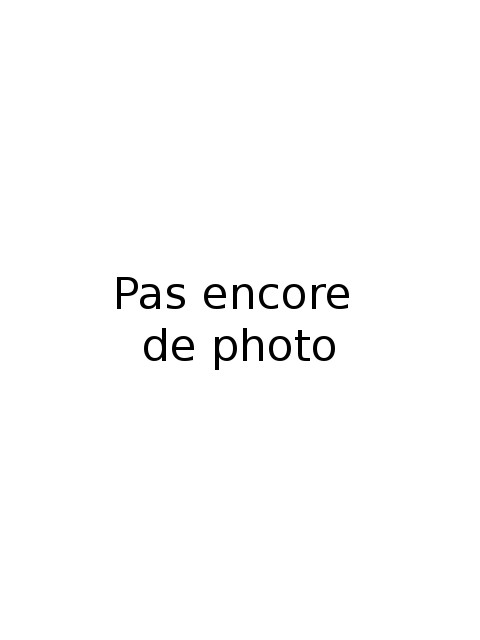
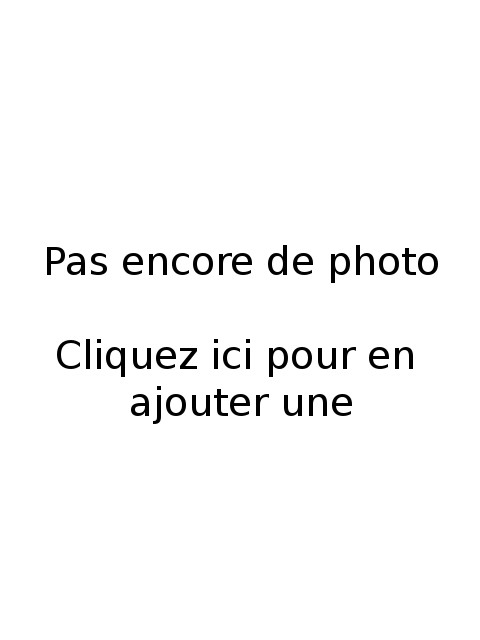
Ajout de la page d'upload des photos, renommage d'une photo et ajout de commentaires

Changed region(s): [[0.0938, 0.375, 0.9375, 0.6562], [0.0938, 0.375, 0.2188, 0.4375]]

diff --git a/Trombinoscope.php b/Trombinoscope.php
@@ -37,12 +37,19 @@
           
           $id=$donnees['id'];
           
-
           // passage des variables $id, $tel et $date en paramètre via l'url
           echo "<div class=\"row\">
-                  <div class=\"w-6\">
-                    <div><a href=\"simplonien.php?id=$id&tel=$tel&date=$date\"><img class=\"img_simploniens \"src=\"".$donnees['photo']."\" alt=\"".$donnees['prenom']." ".$donnees['nom']."\" title=\"".$donnees['prenom']." ".$donnees['nom']."\"/></a></div>
-                    <div><br /><p class=\"p_trombi\">".$donnees['prenom']."</p></div>
+                  <div class=\"w-6\">";
+                  
+                  if ($donnees['photo']!='images/PasDePhoto.JPG')
+                  {
+                    echo "<div><a href=\"simplonien.php?id=$id&tel=$tel&date=$date\"><img class=\"img_simploniens \"src=\"".$donnees['photo']."\" alt=\"".$donnees['prenom']." ".$donnees['nom']."\" title=\"".$donnees['prenom']." ".$donnees['nom']."\"/></a></div>";
+                  }
+                  else
+                  {
+                    echo "<div><a href=\"f_upload.php?id=$id\"><img class=\"img_simploniens \"src=\"".$donnees['photo']."\" alt=\"".$donnees['prenom']." ".$donnees['nom']."\" title=\"".$donnees['prenom']." ".$donnees['nom']."\"/></a></div>";
+                  }  
+                    echo "<div><br /><p class=\"p_trombi\">".$donnees['prenom']."</p></div>
                     <div><p class=\"p_trombi\">".$donnees['nom']."</p></div>
                     <div><p class=\"p_trombi\"><a href=\"".$donnees['cv']."\">CV</a></p></div>
                     <div><p class=\"p_trombi\">".$donnees['mail']."</p></div>
@@ -52,7 +59,6 @@
                     <div><a href=\"verif_passwd.php?id=$id&mode=sup\" class=\"boutons\"><img src=\"images/Supprimer.png\" alt=\"Supprimer\" title=\"Supprimer\"/></a></div>
                   </div>
                 </div>";
-                
           if ($colonne == 'droite')
           {
             echo "<p class=\"clear\"></p>";

diff --git a/verif_passwd.php b/verif_passwd.php
@@ -1,19 +1,36 @@
-<?php  
+<!-- Formulaire de demande du mot de passe -->
 
+<?php  
 	$id=$_GET['id'];
 	$mode=$_GET['mode'];
+	
+	//si l'ip est celle de l'utilisateur local (127.0.0.1) et qu'on est en mode suppresion
+	//on charge la page de suppresion sans demander le mdp
+	if (($_SERVER["REMOTE_ADDR"]=='127.0.0.1')&&($mode=='sup'))
+	{
+		echo header('Location: supprimer.php?id='.$id);
+	}
 
-	if ($mode=='sup') // si le mode est sup alors on ouvre la page supprimer avec l'id en paramètre
+	//si l'ip est celle de l'utilisateur local (127.0.0.1) et qu'on est en mode modification
+	//on charge la page de modification sans demander le mdp
+	if (($_SERVER["REMOTE_ADDR"]=='127.0.0.1')&&($mode=='mod'))
+	{
+		echo header('Location: f_modifier.php?id='.$id);
+	}
+
+	if ($mode=='sup') //affichage de la demande de mot de passe pour la page supprimer 
 	{
 		echo 	"<form method=\"post\" action=\"supprimer.php?id=$id\">
 					<label for=\"password\">Mot de passe : </label><input type=\"password\" name=\"password\"/>
 				</form>";	
 	}
 
-	if ($mode=='mod') // si le mode est mod alors on ouvre la page supprimer avec l'id en paramètre
+	if ($mode=='mod') //affichage de la demande de mot de passe pour la page modification
 	{
 		echo 	"<form method=\"post\" action=\"f_modifier.php?id=$id\">
 					<label for=\"password\">Mot de passe : </label><input type=\"password\" name=\"password\"/>
 				</form>";
 	}
+
+
 ?>

diff --git a/upload.php b/upload.php
@@ -1,0 +1,43 @@
+<?php
+    include("../../configPDO.php"); //recupère les infos de connexions a la bdd
+
+	
+	$id = $_GET['id'];
+    
+    $t_simploniens = $bdd->prepare('SELECT * FROM simploniens WHERE id=:id');
+    $t_simploniens->execute(array('id' => $id));
+
+    while ($donnees = $t_simploniens->fetch())
+    {
+    	$taille_maxi = 5000000;
+		$taille = filesize($_FILES['photo']['tmp_name']);
+		$extensions = array('.png', '.gif', '.jpg', '.jpeg', '.JPG');
+		$extension = strrchr($_FILES['photo']['name'], '.'); 
+		
+		//Début des vérifications de sécurité...
+		if(!in_array($extension, $extensions)) //Si l'extension n'est pas dans le tableau
+		{
+     		$erreur = 'Vous devez uploader un fichier de type png, gif, jpg, jpeg, JPG';
+			echo $erreur;
+		}
+
+		if($taille>$taille_maxi)
+		{
+     		$erreur = 'Le fichier est trop gros...';
+			echo $erreur;
+		}
+
+		if(!isset($erreur)) //S'il n'y a pas d'erreur, on upload
+		{		
+    		$tmp_name = $_FILES['photo']['tmp_name'];
+			$destination = 'images/';
+			$fichier = $donnees['prenom']."_".$donnees['nom'].".JPG";
+			move_uploaded_file($tmp_name, $destination.$fichier);
+
+			$req = $bdd->prepare('UPDATE simploniens SET photo=:photo WHERE id = :id');
+			$req->execute(array(
+        			'photo' => $destination.$fichier,
+        			'id' => $_GET['id']));
+		}
+	}
+?>

diff --git a/supprimer.php b/supprimer.php
@@ -3,10 +3,7 @@
 
    <head>
       <meta charset="utf-8">
-      <!--
-      <meta http-equiv="refresh" content="2;Trombinoscope.php" />
-      -->
-      <title>Trombinoscope</title>
+      <title>Supprimer</title>
       <link rel="stylesheet" href="style.css"/>
       <link href='https://fonts.googleapis.com/css?family=Cabin:600italic' rel='stylesheet' type='text/css'>
    </head>
@@ -23,7 +20,9 @@
          
          $passwd=substr($passwd,0,-1); //enlève le dernier caractère du mot de passe (il est invisible)
 
-         if ($_POST['password'] == $passwd) // vérifie si les mots de passe correspondent
+         
+
+         if (($_POST['password'] == $passwd) || ($_SERVER["REMOTE_ADDR"]='127.0.0.1')) // vérifie si les mots de passe correspondent
          {
             include("../../configPDO.php"); //recupère les infos de connexions a la bdd
 
@@ -35,7 +34,7 @@
          
          else
          {
-            echo header('Location: Trombinoscope.php');
+            echo header('Location: verif_passwd.php?id='.$id.'&mode=sup');
          }
       ?>
    

diff --git a/f_modifier.php b/f_modifier.php
@@ -15,10 +15,7 @@
          
         $passwd=substr($passwd,0,-1);
 
-        echo $passwd;
-        echo $_POST['password'];
-
-        if ($_POST['password'] == $passwd)
+        if (($_SERVER["REMOTE_ADDR"]='127.0.0.1') || ($_POST['password'] == $passwd))
         {
           include("../../configPDO.php"); //recupère les infos de connexions a la bdd
 
@@ -44,7 +41,7 @@
         }     
         else
         {
-          echo  header('Location: Trombinoscope.php');
+          echo header('Location: verif_passwd.php?id='.$id.'&mode=sup');
         }
       ?>
     </body>

diff --git a/simplonien.php b/simplonien.php
@@ -3,7 +3,7 @@
 
     <head>
       <meta charset="utf-8">
-      <title>Trombinoscope</title>
+      <title>Simplonien</title>
       <link rel="stylesheet" href="style.css"/>
       <link href='https://fonts.googleapis.com/css?family=Cabin:600italic' rel='stylesheet' type='text/css'>
 

diff --git a/trombi.php b/trombi.php
@@ -35,6 +35,8 @@
 						'mail' => $_POST['mail'],
 						'telephone' => $_POST['telephone'],
 						'naissance' => $_POST['naissance']));
+
+				echo header('Location: Trombinoscope.php'); // redirection vers la page Trombinoscope.php   
 			?>
 		</body>
 	</html>

diff --git a/f_upload.php b/f_upload.php
@@ -1,0 +1,8 @@
+<?php
+
+	$id=$_GET['id'];
+	echo "<form name\"upload\" method=\"post\" action=\"upload.php?id=$id\" enctype=\"multipart/form-data\">
+			<input type=\"file\" name=\"photo\" />
+			<input type=\"submit\" value=\"Envoyer\"/>
+		</form>";
+?>
